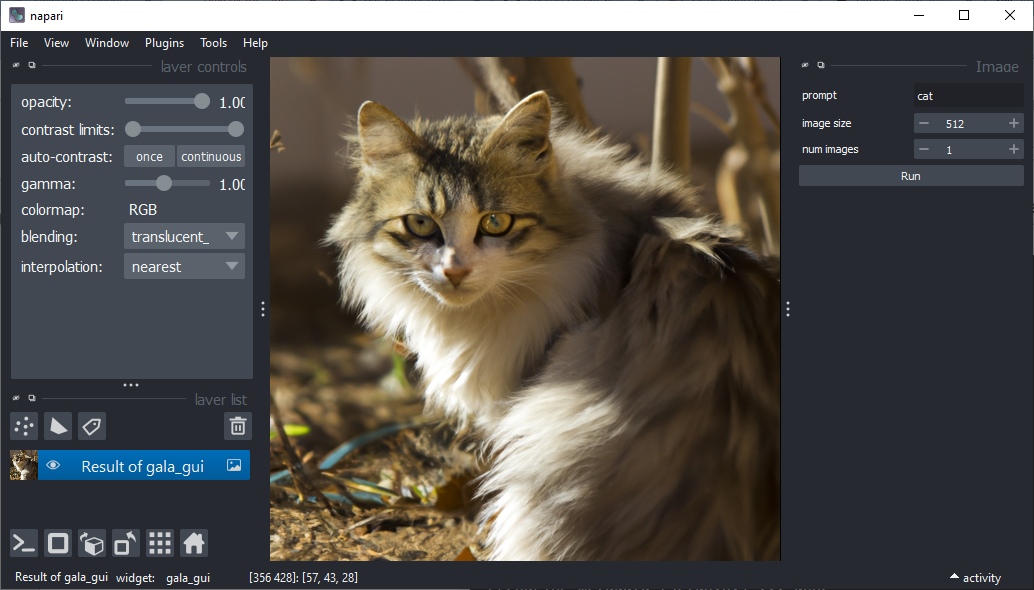
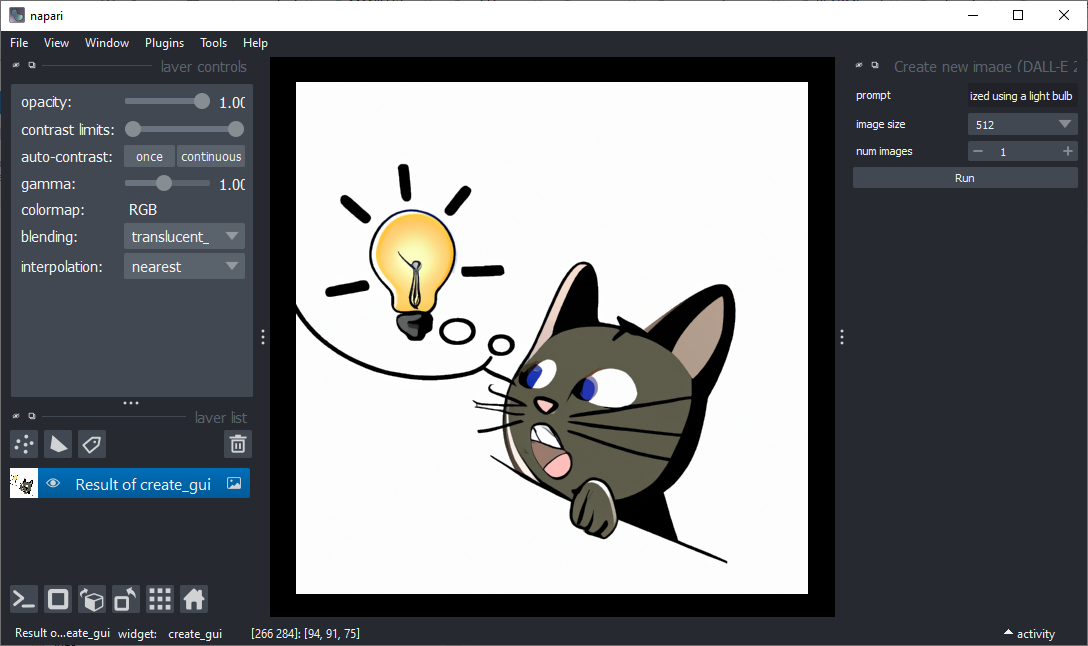
replaced example image, added prompt that generated it to docs

diff --git a/README.md b/README.md
@@ -47,7 +47,8 @@ Replacing regions in images is also possible. Note: handle this function with ca
 
 ### In Napari
 
-To generate images in Napari, click the `Tools > Generate > Image` menu
+To generate images in Napari, click the `Tools > Generate > Image` menu. You can for example enter the prompt
+"a professional comic with white background showing a cat having an idea. the idea is visualized using a light bulb.
 
 ![](https://github.com/haesleinhuepf/darth-d/raw/main/docs/images/napari_screenshot.png)
 
